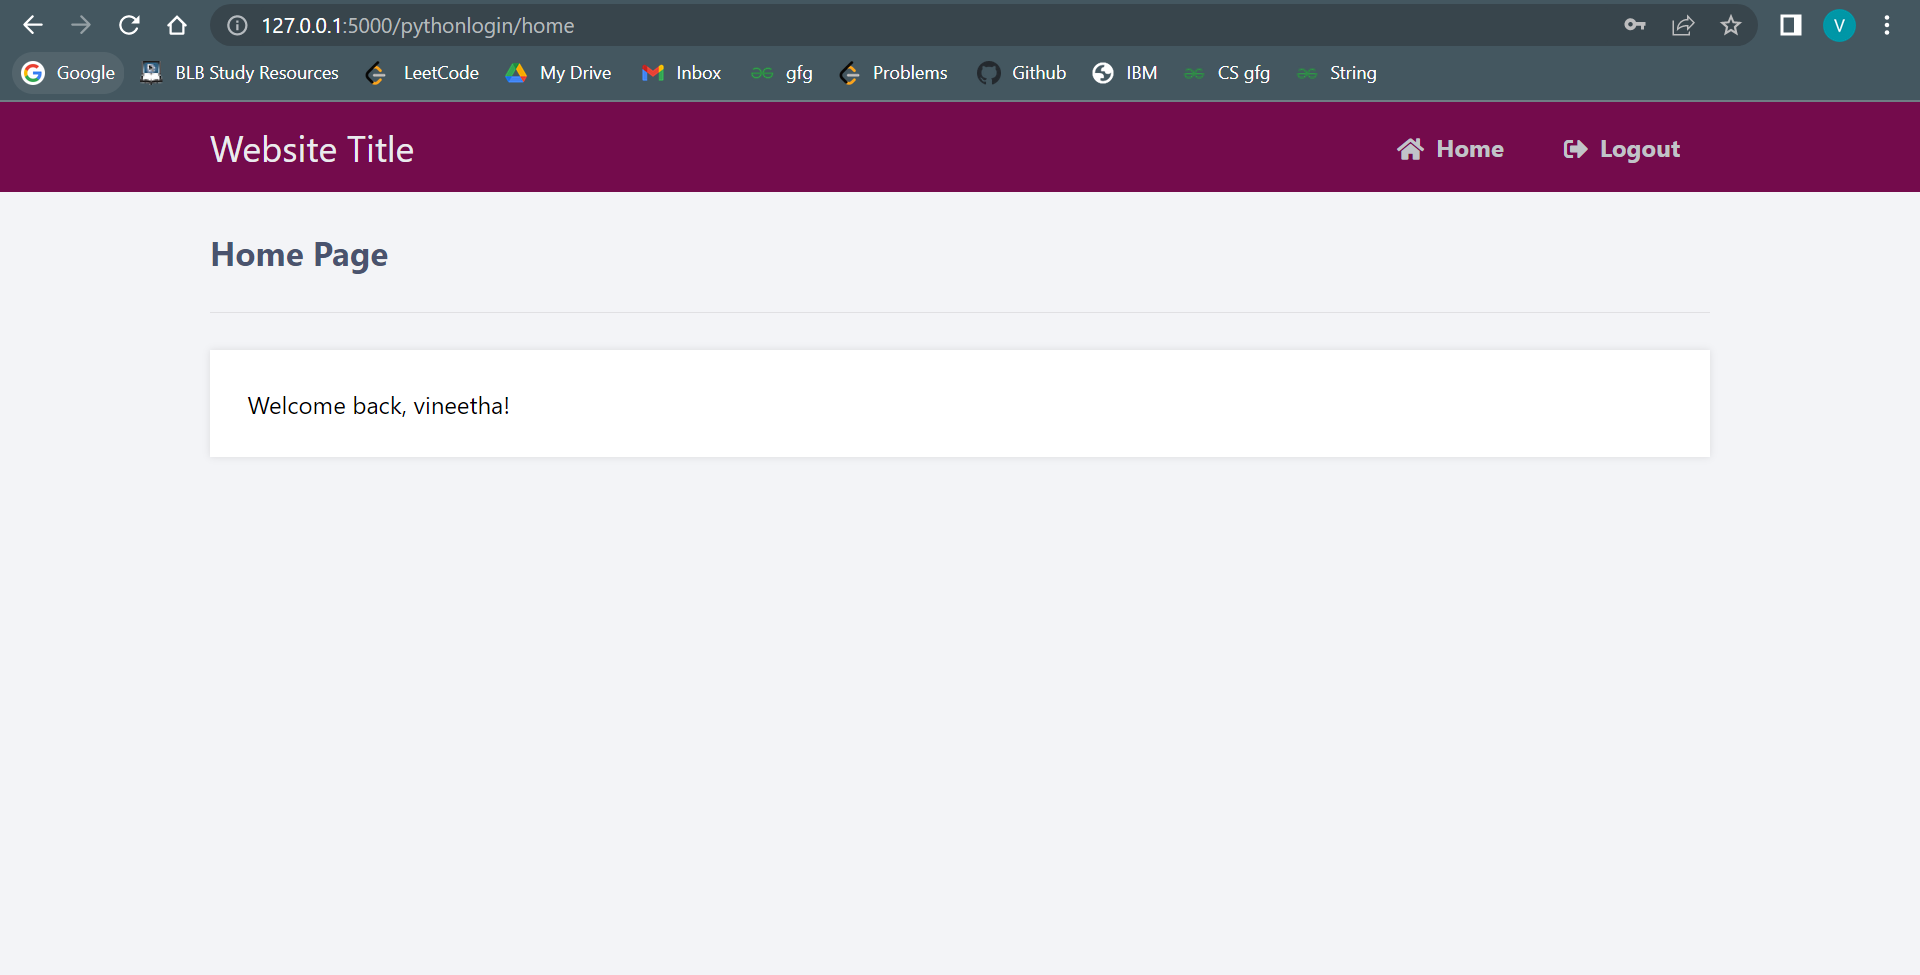
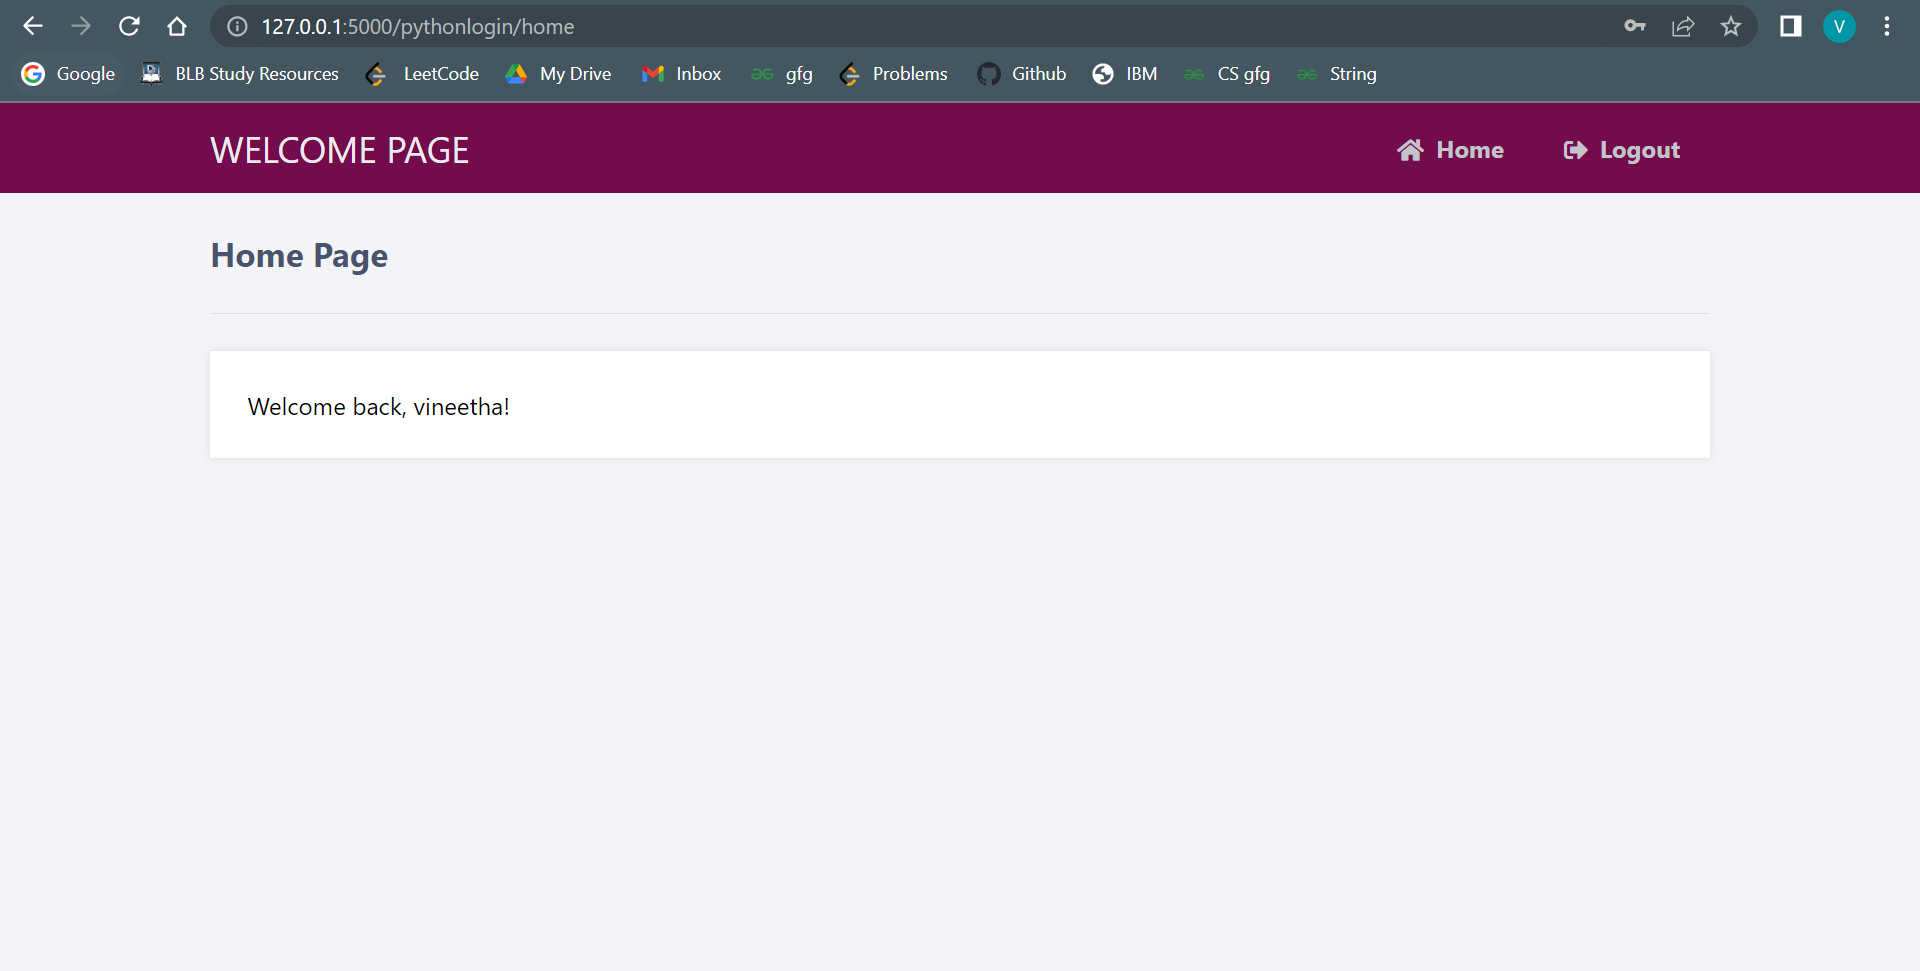
changes

diff --git a/Assignment/Vineetha R S/Assignment -2/templates/layout.html b/Assignment/Vineetha R S/Assignment -2/templates/layout.html
@@ -9,7 +9,7 @@
 	<body class="loggedin">
 		<nav class="navtop">
 			<div>
-				<h1>Website Title</h1>
+				<h1>WELCOME PAGE</h1>
                 <a href="{{ url_for('home') }}"><i class="fas fa-home"></i>Home</a>
 				
 				<a href="{{ url_for('logout') }}"><i class="fas fa-sign-out-alt"></i>Logout</a>

diff --git a/Assignment/Vineetha R S/Assignment -2/readme.md b/Assignment/Vineetha R S/Assignment -2/readme.md
@@ -1,0 +1,7 @@
+<img src="./output/capture.png" alt="op1"/>
+<img src="./output/capture1.png" alt="op2"/>
+<img src="./output/capture2.png" alt="op3"/>
+<img src="./output/capture3.png" alt="op4"/>
+<img src="./output/capture4.png" alt="op5"/>
+<img src="./output/capture5.png" alt="op6"/>
+
